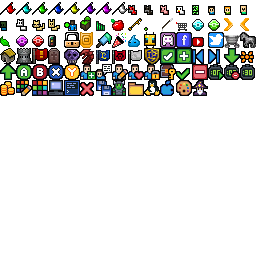
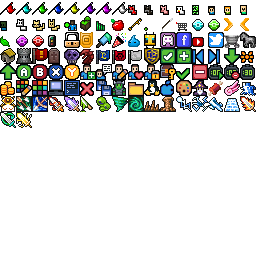
Update

Changed region(s): [[0.0, 0.3125, 1.0, 0.5]]

diff --git a/README.md b/README.md
@@ -363,5 +363,26 @@ https://youtu.be/DOz0nD8pvnM
 |             U2B16                  |     All      |    ⩚      |  -      |![mac_logo](https://user-images.githubusercontent.com/12781303/118395254-7c6dd880-b673-11eb-8b5a-6a658147b23c.png)|
 |             U2B17                  |     All      |    ⩛      |  -      |![palette](https://user-images.githubusercontent.com/12781303/118395255-7c6dd880-b673-11eb-9cfc-c8a64d271e79.png)|
 |             U2B18                  |     All      |    ⩜      |  -      |![wizard](https://user-images.githubusercontent.com/12781303/118395256-7d066f00-b673-11eb-9b36-3e97f90fa941.png)|
+|             U2B19                  |     All      |    ⩝      |  -      |![ภาพถ่ายหน้าจอ 2564-06-28 เวลา 05 20 04](https://user-images.githubusercontent.com/12781303/123561243-7b32de00-d7d1-11eb-9a25-7759e8f28e00.png)|
+|             U2B20                  |     All      |    ⩞      |  -      |![ภาพถ่ายหน้าจอ 2564-06-28 เวลา 05 20 16](https://user-images.githubusercontent.com/12781303/123561246-7cfca180-d7d1-11eb-967d-9d794c355a2b.png)|
+|             U2B21                  |     All      |    ⩟      |  -      |![ภาพถ่ายหน้าจอ 2564-06-28 เวลา 05 20 23](https://user-images.githubusercontent.com/12781303/123561247-7d953800-d7d1-11eb-84bb-f90ddd354e17.png)|
+|             U2B22                  |     All      |    ⩠      |  -      |![ภาพถ่ายหน้าจอ 2564-06-28 เวลา 05 20 29](https://user-images.githubusercontent.com/12781303/123561248-7e2dce80-d7d1-11eb-8532-1328f2b2c234.png)|
+|             U2B23                  |     All      |    ⩡      |  -      |![ภาพถ่ายหน้าจอ 2564-06-28 เวลา 05 20 36](https://user-images.githubusercontent.com/12781303/123561249-7ec66500-d7d1-11eb-9bd3-a728eb77c189.png)|
+|             U2B24                  |     All      |    ⩢      |  -      |![ภาพถ่ายหน้าจอ 2564-06-28 เวลา 05 20 42](https://user-images.githubusercontent.com/12781303/123561250-7ec66500-d7d1-11eb-9f5c-1ff9f5a5682c.png)|
+|             U2B25                  |     All      |    ⩣      |  -      |![ภาพถ่ายหน้าจอ 2564-06-28 เวลา 05 20 50](https://user-images.githubusercontent.com/12781303/123561251-7f5efb80-d7d1-11eb-83b3-a9b0f542200a.png)|
+|             U2B26                  |     All      |    ⩤      |  -      |![ภาพถ่ายหน้าจอ 2564-06-28 เวลา 05 20 56](https://user-images.githubusercontent.com/12781303/123561252-7ff79200-d7d1-11eb-963c-171f606a159f.png)|
+|             U2B27                  |     All      |    ⩥      |  -      |![ภาพถ่ายหน้าจอ 2564-06-28 เวลา 05 21 02](https://user-images.githubusercontent.com/12781303/123561253-7ff79200-d7d1-11eb-8eb7-f88c1d1e9429.png)|
+|             U2B28                  |     All      |    ⩦      |  -      |![ภาพถ่ายหน้าจอ 2564-06-28 เวลา 05 21 09](https://user-images.githubusercontent.com/12781303/123561254-80902880-d7d1-11eb-8212-c30f41570dbd.png)|
+|             U2B29                  |     All      |    ⩧      |  -      |![ภาพถ่ายหน้าจอ 2564-06-28 เวลา 05 21 14](https://user-images.githubusercontent.com/12781303/123561257-8128bf00-d7d1-11eb-9965-b35fc5e7bdf9.png)|
+|             U2B30                  |     All      |    ⩨      |  -      |![ภาพถ่ายหน้าจอ 2564-06-28 เวลา 05 21 20](https://user-images.githubusercontent.com/12781303/123561258-8128bf00-d7d1-11eb-8190-20d6eed7b6c3.png)|
+|             U2B31                  |     All      |    ⩩      |  -      |![ภาพถ่ายหน้าจอ 2564-06-28 เวลา 05 21 26](https://user-images.githubusercontent.com/12781303/123561259-81c15580-d7d1-11eb-9f7c-96d92d928c87.png)|
+|             U2B32                  |     All      |    ⩪      |  -      |![ภาพถ่ายหน้าจอ 2564-06-28 เวลา 05 21 32](https://user-images.githubusercontent.com/12781303/123561261-81c15580-d7d1-11eb-9121-dc57e1b1f72e.png)|
+|             U2B33                  |     All      |    ⩫      |  -      |![ภาพถ่ายหน้าจอ 2564-06-28 เวลา 05 21 38](https://user-images.githubusercontent.com/12781303/123561262-8259ec00-d7d1-11eb-88a2-0c88a776a981.png)|
+|             U2B34                  |     All      |    ⩬      |  -      |![ภาพถ่ายหน้าจอ 2564-06-28 เวลา 05 21 42](https://user-images.githubusercontent.com/12781303/123561264-82f28280-d7d1-11eb-9e48-c056e57b9c76.png)|
+|             U2B35                  |     All      |    ⩭      |  -      |![ภาพถ่ายหน้าจอ 2564-06-28 เวลา 05 21 47](https://user-images.githubusercontent.com/12781303/123561266-82f28280-d7d1-11eb-8cd6-1939ec7a99a2.png)|
+|             U2B36                  |     All      |    ⩮      |  -      |![ภาพถ่ายหน้าจอ 2564-06-28 เวลา 05 21 54](https://user-images.githubusercontent.com/12781303/123561267-838b1900-d7d1-11eb-8e29-ba44dfe9e621.png)|
+|             U2B37                  |     All      |    ⩯      |  -      |![ภาพถ่ายหน้าจอ 2564-06-28 เวลา 05 22 01](https://user-images.githubusercontent.com/12781303/123561268-8423af80-d7d1-11eb-88e4-0d704cfa990d.png)|
+|             U2B38                  |     All      |    ⩰      |  -      |![ภาพถ่ายหน้าจอ 2564-06-28 เวลา 05 22 06](https://user-images.githubusercontent.com/12781303/123561270-8423af80-d7d1-11eb-8334-d11a100563fc.png)|
+|             U2B39                  |     All      |    ⩱      |  -      |![ภาพถ่ายหน้าจอ 2564-06-28 เวลา 05 22 12](https://user-images.githubusercontent.com/12781303/123561272-84bc4600-d7d1-11eb-8f0f-0d18f0616516.png)|
 
 
